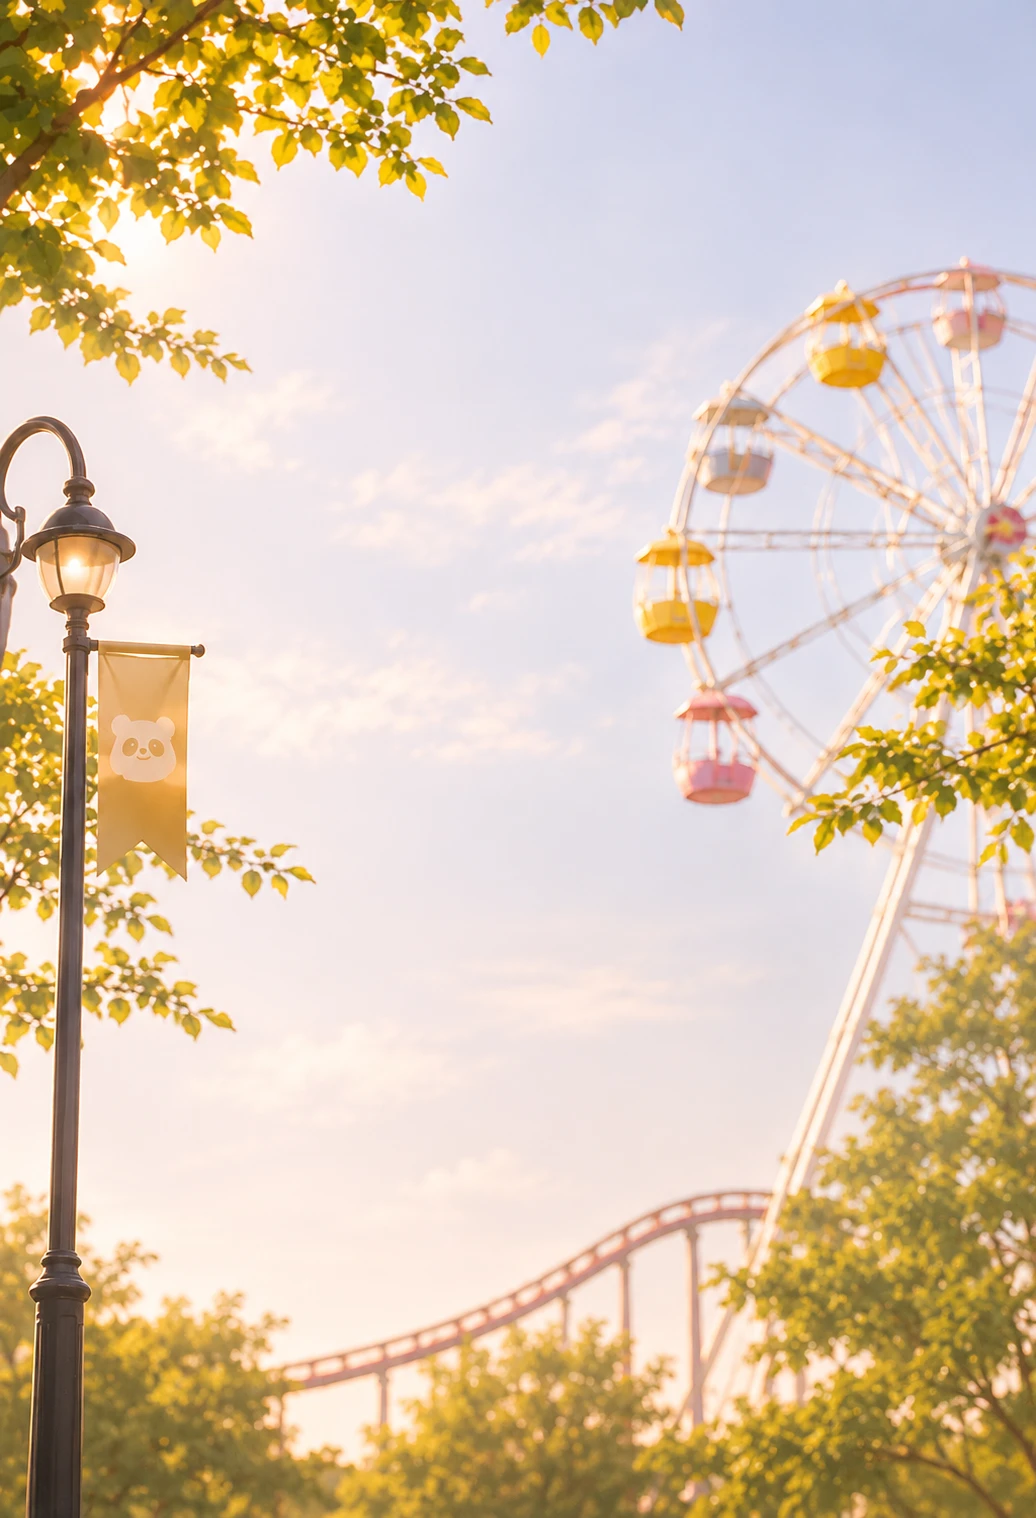
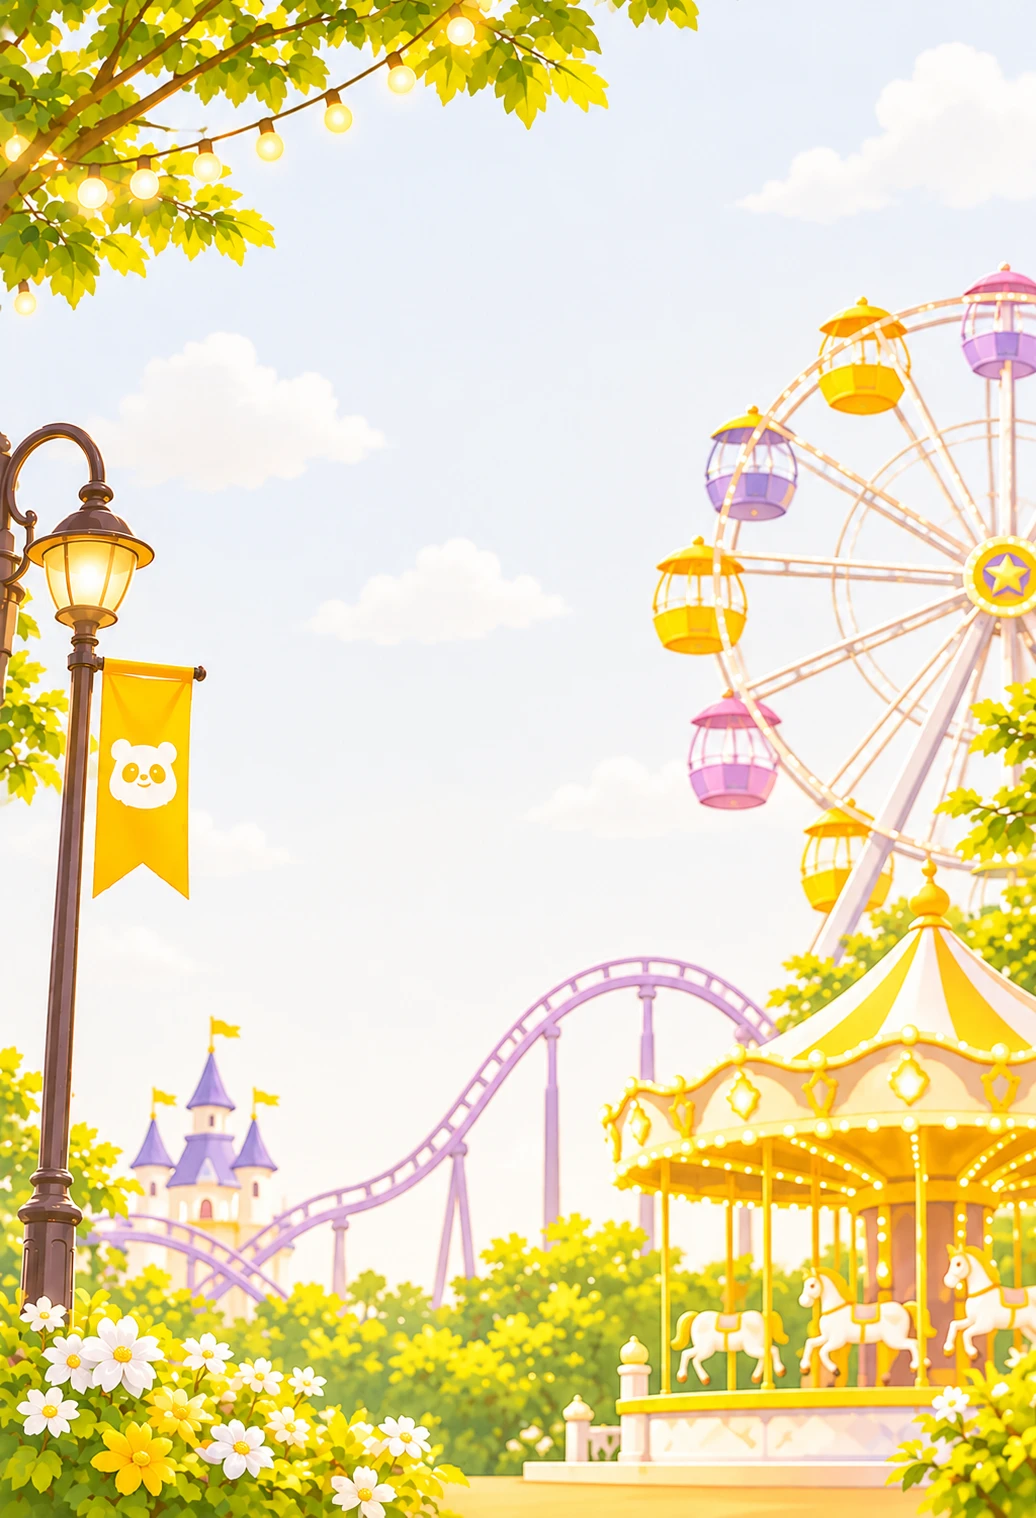
feat: 로그인 화면 전면 리디자인
- 배경 사진 전체 적용 + 하단 흰색 그라데이션 오버레이
- 로그인 폼 카드/탭 제거, 배경 위에 직접 배치
- 파크톡 로고 우상단 이동
- 시연용 면책 문구 제거
- 새 테마파크 일러스트 배경으로 교체
- 계정 안내 텍스트 가독성 개선

diff --git a/auth.css b/auth.css
@@ -1,64 +1,64 @@
 .app[hidden], #authApp[hidden], #visitorApp[hidden] { display: none !important; }
 
 /* ── App & Layout ── */
-.auth-app { min-height: 100vh; font-family: 'DM Sans', 'Noto Sans KR', sans-serif; display: flex; justify-content: center; background: #c8b89a; }
+.auth-app { min-height: 100vh; font-family: 'DM Sans', 'Noto Sans KR', sans-serif; display: flex; justify-content: center; background: #c8baa0; }
 .auth-layout { width: 100%; max-width: 480px; min-height: 100vh; display: flex; flex-direction: column; background: url('assets/park-bg.webp') center top / cover no-repeat !important; position: relative; }
 
+/* 아래로 갈수록 연노란색 그라데이션 — 로그인 텍스트 가독성 */
+.auth-layout::after { content: ''; position: absolute; inset: 0; background: linear-gradient(to bottom, transparent 0%, transparent 42%, rgba(255,255,255,0.18) 60%, rgba(255,255,255,0.52) 74%, rgba(255,255,255,0.78) 87%, rgba(255,255,255,0.90) 100%); pointer-events: none; z-index: 0; }
+
 /* ── Header ── */
-.auth-header { display: flex; align-items: center; padding: 44px 24px 0; }
-.auth-logo { height: 34px; max-width: 150px; object-fit: contain; }
+.auth-header { display: flex; align-items: center; justify-content: flex-end; padding: 44px 16px 0; position: relative; z-index: 1; }
+.auth-logo { height: 36px; max-width: 140px; object-fit: contain; }
+.auth-header__badge { display: inline-flex; align-items: center; gap: 5px; background: rgba(255,255,255,0.86); border: 1.5px solid rgba(255,255,255,0.7); color: #9a6500; font-size: 11.5px; font-weight: 700; padding: 7px 13px; border-radius: 24px; backdrop-filter: blur(8px); white-space: nowrap; }
 
 /* ── Headline ── */
-.auth-hero__copy { display: flex; flex-direction: column; justify-content: flex-end; padding: 24px 24px 20px; }
-.auth-hero__copy h1 { margin: 0; font-size: clamp(22px, 6vw, 30px); font-weight: 800; color: #1a1208; line-height: 1.25; letter-spacing: -0.03em; }
-.auth-hero__deco { display: flex; align-items: center; gap: 8px; margin-top: 8px; }
-.auth-hero__star { font-size: 16px; color: #c89010; line-height: 1; }
+.auth-hero__copy { flex: 1; display: flex; flex-direction: column; justify-content: flex-end; padding: 0 16px 28px; position: relative; z-index: 1; min-height: 160px; }
+.auth-hero__copy h1 { margin: 0; font-size: clamp(28px, 8vw, 40px); font-weight: 900; color: #1a1208; line-height: 1.2; letter-spacing: -0.04em; }
+.auth-hero__deco { display: flex; align-items: center; gap: 8px; margin-top: 10px; }
+.auth-hero__star { font-size: 20px; color: #c89010; line-height: 1; }
 
-/* ── Panel / Form Card ── */
-.auth-panel { margin: 16px 16px 32px; background: rgba(255,255,255,0.90); backdrop-filter: blur(18px); border-radius: 20px; padding: 26px 22px 32px; box-shadow: 0 8px 32px rgba(0,0,0,0.13); overflow-y: auto; }
-.auth-panel h2 { margin: 0 0 5px; font-size: 22px; font-weight: 800; color: #1a1208; letter-spacing: -0.04em; }
-.auth-lead { margin: 0 0 18px; color: #aaa; font-size: 13px; line-height: 1.5; }
+/* ── Form 영역 (카드 없음, 배경사진 위에 바로) ── */
+.auth-panel { background: transparent !important; border-radius: 0; padding: 28px 10px 56px; position: relative; z-index: 1; box-shadow: none; width: 90% !important; box-sizing: border-box; margin-left: auto; margin-right: auto; }
+.auth-panel h2 { margin: 0 0 4px; font-size: 22px; font-weight: 800; color: #1a1208; letter-spacing: -0.04em; }
+.auth-lead { margin: 0 0 16px; color: #9a9080; font-size: 13px; line-height: 1.5; }
 
 /* ── Tabs ── */
-.auth-tabs { display: grid; grid-template-columns: 1fr 1fr; padding: 4px; background: #f5f3ef; border-radius: 13px; margin: 0 0 18px; }
-.auth-tabs button { border: 0; border-radius: 10px; background: transparent; padding: 10px; color: #bbb; font-size: 13px; font-weight: 800; cursor: pointer; font-family: inherit; }
-.auth-tabs button.active { background: #fff; color: #c07d00; box-shadow: 0 2px 8px rgba(0,0,0,0.08); }
+.auth-tabs { display: grid; grid-template-columns: 1fr 1fr; padding: 4px; background: rgba(200,180,140,0.18); border: 1px solid rgba(200,175,120,0.22); border-radius: 13px; margin: 0 0 16px; }
+.auth-tabs button { border: 0; border-radius: 10px; background: transparent; padding: 10px; color: rgba(100,75,20,0.5); font-size: 13px; font-weight: 800; cursor: pointer; font-family: inherit; }
+.auth-tabs button.active { background: #fff; color: #c07d00; box-shadow: 0 2px 10px rgba(180,130,0,0.12); }
 
 /* ── Form Fields ── */
 .auth-form { display: grid; gap: 10px; }
 .auth-input-wrap { position: relative; display: flex; align-items: center; }
-.auth-input-icon { position: absolute; left: 15px; color: #ccc; pointer-events: none; display: flex; align-items: center; }
-.auth-form input { height: 50px; width: 100%; border: 1.5px solid #ede9e2; background: #faf9f6; border-radius: 14px; padding: 0 14px 0 44px; color: #1a1208; font-size: 14px; outline: none; font-family: inherit; }
+.auth-input-icon { position: absolute; left: 15px; color: rgba(100,75,20,0.35); pointer-events: none; display: flex; align-items: center; }
+.auth-form input { height: 52px; width: 100%; border: 1.5px solid rgba(200,175,120,0.35); background: rgba(255,255,255,0.78); border-radius: 14px; padding: 0 14px 0 44px; color: #1a1208; font-size: 14px; outline: none; font-family: inherit; }
 .auth-input-wrap.has-toggle input { padding-right: 44px; }
-.auth-form input:focus { border-color: #d4a030; box-shadow: 0 0 0 3px rgba(212,160,48,0.12); background: #fff; }
-.auth-form input::placeholder { color: #ccc; }
-.auth-pw-toggle { position: absolute; right: 14px; border: 0; background: none; color: #bbb; padding: 4px; cursor: pointer; display: flex; align-items: center; }
-.auth-pw-toggle:hover { color: #888; }
+.auth-form input:focus { border-color: #d4a030; box-shadow: 0 0 0 3px rgba(212,160,48,0.12); background: rgba(255,255,255,0.95); }
+.auth-form input::placeholder { color: rgba(100,75,20,0.35); }
+.auth-pw-toggle { position: absolute; right: 14px; border: 0; background: none; color: rgba(100,75,20,0.35); padding: 4px; cursor: pointer; display: flex; align-items: center; }
+.auth-pw-toggle:hover { color: rgba(100,75,20,0.6); }
 
 /* ── Submit ── */
-.auth-submit { display: flex; justify-content: center; align-items: center; gap: 8px; margin-top: 6px; border: 0; border-radius: 14px; background: #e8a820; color: #fff; height: 52px; width: 100%; font-size: 15px; font-weight: 800; letter-spacing: -0.02em; box-shadow: 0 6px 20px rgba(200,130,0,0.28); cursor: pointer; font-family: inherit; }
-.auth-submit span { font-size: 18px; }
+.auth-submit { display: flex; justify-content: space-between; align-items: center; margin-top: 6px; border: 0; border-radius: 14px; background: #e8a820; color: #fff; height: 54px; width: 100%; padding: 0 22px; font-size: 15px; font-weight: 800; letter-spacing: -0.02em; box-shadow: 0 6px 20px rgba(200,130,0,0.28); cursor: pointer; font-family: inherit; }
+.auth-submit span { font-size: 20px; }
 .auth-submit:hover { background: #d49918; }
 
-/* ── Guest ── */
-.auth-guest { display: flex; align-items: center; justify-content: center; gap: 6px; width: 100%; margin-top: 10px; border: 1.5px solid #ede9e2; border-radius: 14px; background: transparent; color: #9a6a0a; font-size: 13px; font-weight: 700; height: 48px; cursor: pointer; font-family: inherit; }
-.auth-guest:hover { background: #fdf9f0; }
-
-/* ── Bottom Links ── */
-.auth-signup-link { display: flex; justify-content: center; align-items: center; gap: 6px; margin-top: 20px; font-size: 13px; color: #aaa; }
+/* ── Guest / 하단 링크 ── */
+.auth-guest { display: flex; align-items: center; justify-content: center; gap: 6px; width: 100%; margin-top: 10px; border: 1.5px solid rgba(200,175,120,0.4); border-radius: 14px; background: rgba(255,255,255,0.5); color: #9a6a0a; font-size: 13px; font-weight: 700; height: 50px; cursor: pointer; font-family: inherit; }
+.auth-guest:hover { background: rgba(255,255,255,0.75); }
+.auth-signup-link { display: flex; justify-content: center; align-items: center; gap: 6px; margin-top: 20px; font-size: 13px; color: rgba(60,45,10,0.85); }
 .auth-signup-link button { border: 0; background: none; color: #c07d00; font-size: 13px; font-weight: 800; text-decoration: underline; text-underline-offset: 3px; cursor: pointer; padding: 0; font-family: inherit; }
-.auth-back { border: 0; background: none; padding: 0; margin-bottom: 20px; color: #aaa; font-size: 12px; font-weight: 700; cursor: pointer; font-family: inherit; }
-.auth-quick { border: 0; padding: 6px 0; background: none; color: #c07d00; font-size: 12px; font-weight: 800; text-decoration: underline; text-underline-offset: 4px; cursor: pointer; }
-.auth-demo-disclaimer { margin: 14px 0 0; font-size: 10px; color: #ccc; line-height: 1.6; text-align: center; }
+.auth-back { border: 0; background: none; padding: 0; margin-bottom: 20px; color: rgba(100,80,30,0.5); font-size: 12px; font-weight: 700; cursor: pointer; font-family: inherit; }
+.auth-demo-disclaimer { margin: 14px 0 0; font-size: 10px; color: rgba(100,80,30,0.4); line-height: 1.6; text-align: center; }
 
 /* ── Role fieldset ── */
 .auth-role-field { display: flex; flex-wrap: wrap; gap: 10px; margin: 0; padding: 0; border: 0; }
 .auth-role-field legend { margin-bottom: 8px; font-size: 12px; font-weight: 800; color: #444; display: block; }
-.auth-role-field label { flex: 1; display: flex; align-items: center; gap: 7px; border: 1.5px solid #ede9e2; border-radius: 11px; padding: 12px; font-size: 12px; white-space: nowrap; cursor: pointer; }
+.auth-role-field label { flex: 1; display: flex; align-items: center; gap: 7px; border: 1.5px solid rgba(200,175,120,0.35); border-radius: 11px; padding: 12px; font-size: 12px; white-space: nowrap; cursor: pointer; background: rgba(255,255,255,0.6); }
 .auth-role-field input { width: auto; accent-color: #c07d00; }
-.auth-info { display: grid; gap: 5px; background: #fdf9f0; border-radius: 11px; padding: 13px; color: #9a7a30; font-size: 10px; line-height: 1.6; }
+.auth-info { display: grid; gap: 5px; background: rgba(255,250,235,0.8); border-radius: 11px; padding: 13px; color: #9a7a30; font-size: 10px; line-height: 1.6; }
 .auth-info strong { color: #c07d00; font-size: 11px; }
 
 /* ── Desktop ── */
-@media (min-width: 480px) { .auth-layout { box-shadow: 0 0 60px rgba(0,0,0,0.2); } }
-@media (min-height: 700px) { .auth-hero__copy { flex: 1; } }
+@media (min-width: 480px) { .auth-layout { box-shadow: 0 0 60px rgba(0,0,0,0.18); } }

diff --git a/auth.js b/auth.js
@@ -61,11 +61,7 @@
       <main class="auth-panel">
         <h2>${signup ? "파크톡 회원가입" : "파크톡 로그인"}</h2>
         <p class="auth-lead">${signup ? "회원가입할 때 이용 유형을 선택해 주세요." : "아이디와 비밀번호로 시작해요."}</p>
-        <div class="auth-tabs" role="tablist" aria-label="로그인 또는 회원가입">
-          <button type="button" class="${signup ? "" : "active"}" data-auth-action="mode" data-mode="login" role="tab" aria-selected="${!signup}">로그인</button>
-          <button type="button" class="${signup ? "active" : ""}" data-auth-action="mode" data-mode="signup" role="tab" aria-selected="${signup}">회원가입</button>
-        </div>
-        <form id="parkAuthForm" class="auth-form" novalidate>
+<form id="parkAuthForm" class="auth-form" novalidate>
           ${signup ? `<div class="auth-input-wrap"><span class="auth-input-icon">${SVG_AT}</span><input name="nickname" type="text" minlength="2" maxlength="20" placeholder="사용할 닉네임" required></div>` : ""}
           <div class="auth-input-wrap"><span class="auth-input-icon">${SVG_PERSON}</span><input name="userId" type="text" minlength="3" maxlength="30" autocomplete="username" placeholder="아이디 입력" required></div>
           <div class="auth-input-wrap has-toggle"><span class="auth-input-icon">${SVG_LOCK}</span><input name="password" type="password" minlength="4" autocomplete="${signup ? "new-password" : "current-password"}" placeholder="비밀번호 입력" required><button class="auth-pw-toggle" type="button" data-auth-action="toggle-pw" aria-label="비밀번호 보기">${SVG_EYE}</button></div>
@@ -74,7 +70,6 @@
         </form>
         ${signup ? "" : '<button type="button" class="auth-guest" data-auth-action="guest">로그인 없이 시연하기 <span aria-hidden="true">↗</span></button>'}
         ${signup ? "" : '<p class="auth-signup-link">계정이 없으신가요? <button type="button" data-auth-action="mode" data-mode="signup">회원가입</button></p>'}
-        <p class="auth-demo-disclaimer">시연용 계정입니다. 아이디·닉네임·이용 유형만 이 브라우저에 저장하고 비밀번호는 저장하거나 검증하지 않습니다. 실제 비밀번호를 입력하지 마세요.</p>
       </main>
     </div>`;
     authRoot.querySelector("input")?.focus();
